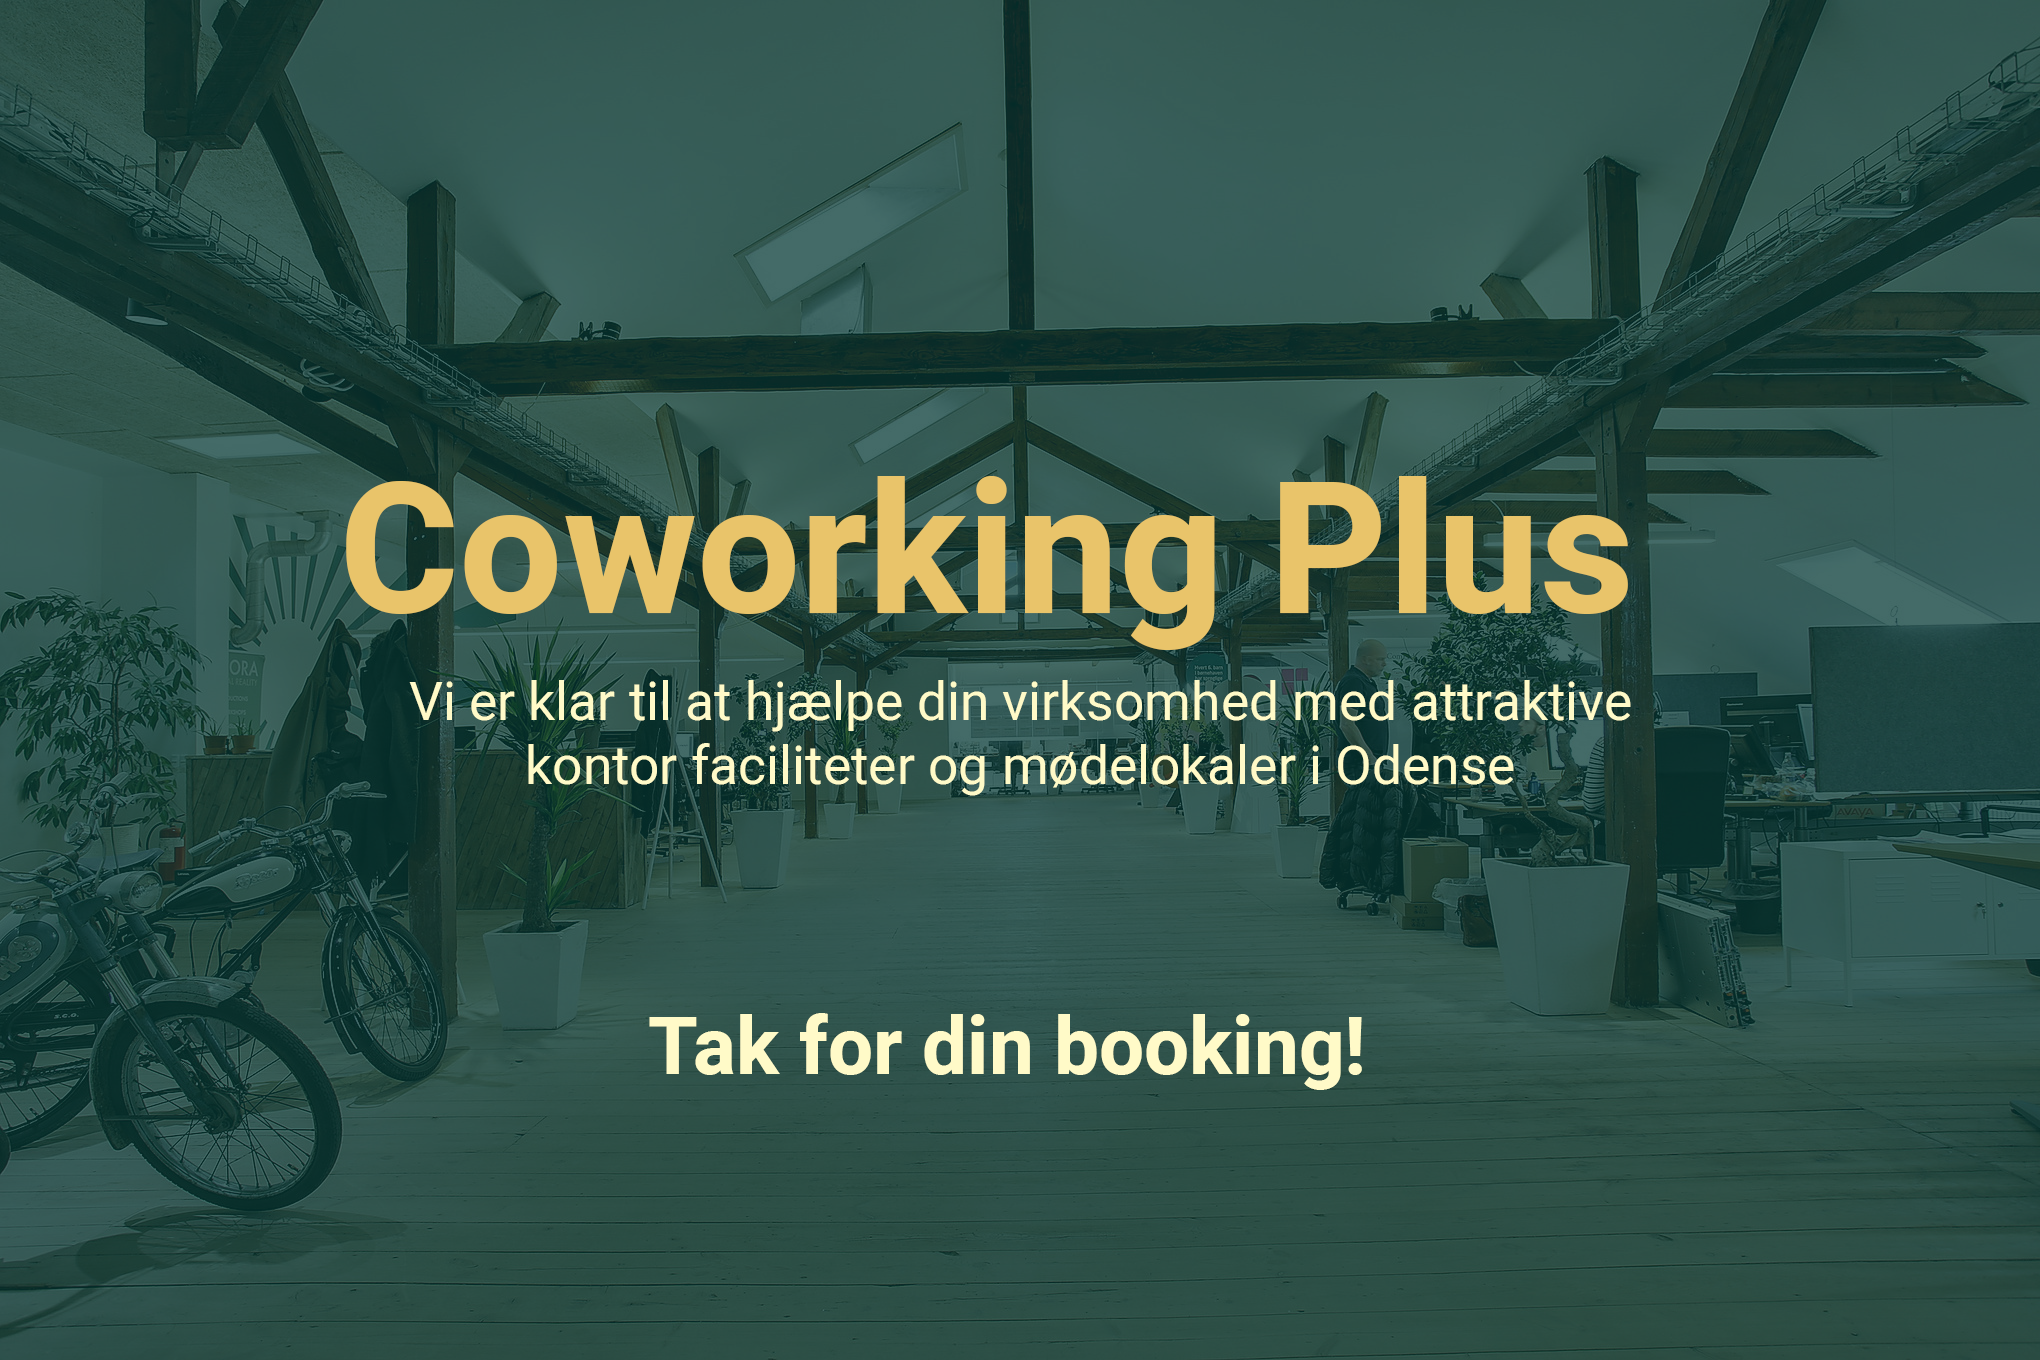
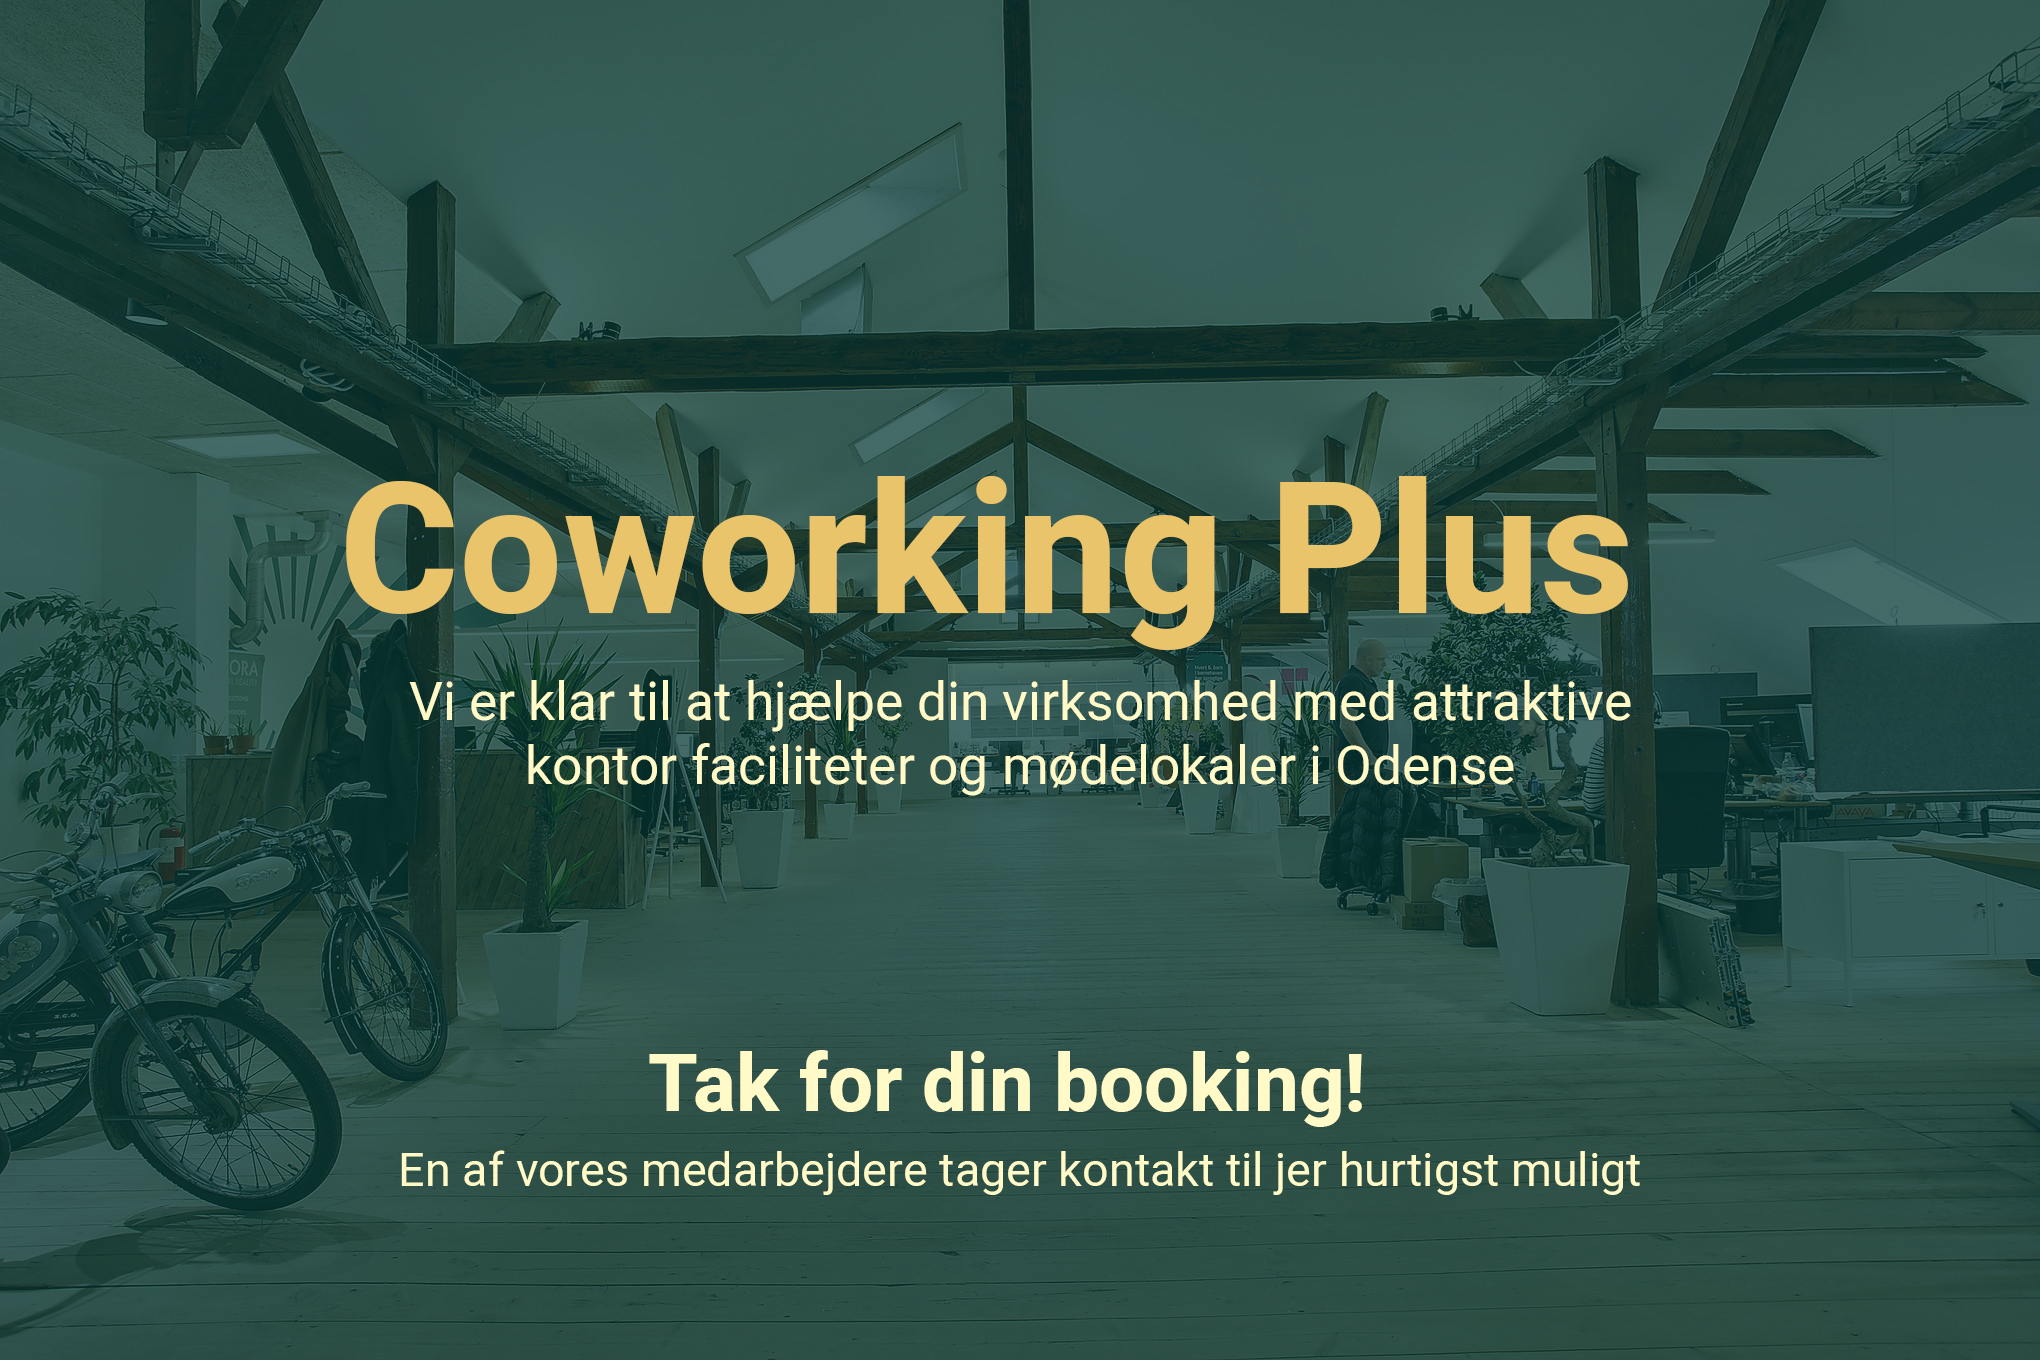
editing + 2nd part of the email template

Changed region(s): [[0.1853, 0.7412, 0.8029, 0.8956]]

diff --git a/index.html b/index.html
@@ -5,6 +5,7 @@
     <meta name="viewport" content="width=device-width, initial-scale=1.0">
     <title>Coworking Plus - Email Template</title>
     <link rel="stylesheet" href="style.css">
+    <link rel="stylesheet" href="https://fonts.googleapis.com/css?family=Heebo">
   </head>
   <body>
 
@@ -32,16 +33,16 @@
                   <table class="column">
                     <tr>
                       <td class="somehead">
-                        <a href="#"><img src="images/facebook.png" alt="facebookicon" class="icons"></a>
-                        <a href="#"><img src="images/linkedin.png" alt="linkedinicon" class="icons"></a>
-                        <a href="#"><img src="images/instagram.png" alt="instagramicon" class="icons"></a>
-                        <a href="#"><img src="images/twitter.png" alt="twittericon" class="icons"></a>
+                        <a href="https://www.facebook.com/CWOPlusOdense"><img src="images/facebook.png" alt="facebookicon" class="icons"></a>
+                        <a href="https://www.linkedin.com/company/cwoplus/"><img src="images/linkedin.png" alt="linkedinicon" class="icons"></a>
+                        <a href="https://www.instagram.com/cwoplus/"><img src="images/instagram.png" alt="instagramicon" class="icons"></a>
+                        <a href="https://twitter.com/CWOplus"><img src="images/twitter.png" alt="twittericon" class="icons"></a>
+                        <a href="https://www.youtube.com/channel/UC6eqIvFgrRJjuL3FPPH1vzQ"><img src="images/youtube.png" alt="youtubeicon" class="icons"></a>
                       </td>
                     </tr>
                   </table>
                 </td>
               </tr>
-
             </table>
           </td>
         </tr>
@@ -59,29 +60,99 @@
             <table class="threecolumnsection">
               <tr>
                 <td class="three-columns">
-                  <table class="column">
+                 <table class="column">
                     <tr>
                       <td class="padding">
                         <table class="content">
                           <tr>
                             <td>
-                              <a href="#"><img src="" alt=""></a>
+                              <a href="#"><img src="images/about.png" alt="about-us" class="about-us"></a>
+                            </td>
+                          </tr>
+                          <tr>
+                            <td>
+                              <p class="abouth1">Om os</p>
+                              <p class="abouttext"> Lorem ipsum dolor sit amet, consectetur adipisicing elit,
+                                sed do eiusmod tempor incididunt ut labore et dolore magna aliqua.
+                                Ut enim ad minim veniam, quis nostrud exercitation ullamco laboris nisi ut aliquip ex ea commodo consequat.
+                                Duis aute irure dolor in reprehenderit in voluptate velit esse cillum dolore eu fugiat nulla pariatur.
+                                Excepteur sint occaecat cupidatat non proident, sunt in culpa qui officia deserunt mollit anim id est laborum.</p>
                             </td>
                           </tr>
                         </table>
                       </td>
                     </tr>
                   </table>
+                  <table class="column">
+                     <tr>
+                       <td class="padding">
+                         <table class="content">
+                           <tr>
+                             <td>
+                               <a href="#"><img src="images/meetingroom.png" alt="benefits" class="benefits"></a>
+                             </td>
+                           </tr>
+                           <tr>
+                             <td>
+                               <p class="benefitsh1">Fordele</p>
+                               <p class="benefitstext"> Lorem ipsum dolor sit amet, consectetur adipisicing elit,
+                                 sed do eiusmod tempor incididunt ut labore et dolore magna aliqua.
+                                 Ut enim ad minim veniam, quis nostrud exercitation ullamco laboris nisi ut aliquip ex ea commodo consequat.
+                                 Duis aute irure dolor in reprehenderit in voluptate velit esse cillum dolore eu fugiat nulla pariatur.
+                                 Excepteur sint occaecat cupidatat non proident, sunt in culpa qui officia deserunt mollit anim id est laborum.</p>
+                             </td>
+                           </tr>
+                         </table>
+                       </td>
+                     </tr>
+                   </table>
+                   <table class="column">
+                      <tr>
+                        <td class="padding">
+                          <table class="content">
+                            <tr>
+                              <td>
+                                <a href="#"><img src="images/events.png" alt="events" class="events"></a>
+                              </td>
+                            </tr>
+                            <tr>
+                              <td>
+                                <p class="eventsh1">Events</p>
+                                <p class="eventstext"> Lorem ipsum dolor sit amet, consectetur adipisicing elit,
+                                  sed do eiusmod tempor incididunt ut labore et dolore magna aliqua.
+                                  Ut enim ad minim veniam, quis nostrud exercitation ullamco laboris nisi ut aliquip ex ea commodo consequat.
+                                  Duis aute irure dolor in reprehenderit in voluptate velit esse cillum dolore eu fugiat nulla pariatur.
+                                  Excepteur sint occaecat cupidatat non proident, sunt in culpa qui officia deserunt mollit anim id est laborum.</p>
+                              </td>
+                            </tr>
+                          </table>
+                        </td>
+                      </tr>
+                    </table>
                 </td>
               </tr>
             </table>
           </td>
         </tr>
-
-
-
-
-
+<!-- FOOTER -->
+        <tr>
+          <td class="footersection">
+            <table class="footer">
+              <tr>
+                <td class="footer-column">
+                  <a href="#"><img src="images/cwlogowhite.png" alt="Coworking Plus Logo" class="cwlogofoot"></a>
+                  <p class="footertitle">Coworking Plus ApS</p>
+                  <p class="footertext">Kochsgade 31D, 5000 Odense C, Danmark</p>
+                  <a href="https://www.facebook.com/CWOPlusOdense"><img src="images/facebookwhite.png" alt="facebookicon" class="icons"></a>
+                  <a href="https://www.linkedin.com/company/cwoplus/"><img src="images/linkedinwhite.png" alt="linkedinicon" class="icons"></a>
+                  <a href="https://www.instagram.com/cwoplus/"><img src="images/instagramwhite.png" alt="instagramicon" class="icons"></a>
+                  <a href="https://twitter.com/CWOplus"><img src="images/twitterwhite.png" alt="twittericon" class="icons"></a>
+                  <a href="https://www.youtube.com/channel/UC6eqIvFgrRJjuL3FPPH1vzQ"><img src="images/youtubewhite.png" alt="youtubeicon" class="icons"></a>
+                </td>
+              </tr>
+            </table>
+          </td>
+        </tr>
       </table>
     </div>
   </body>

diff --git a/style.css b/style.css
@@ -1,5 +1,6 @@
 * {
   scroll-behavior: smooth;
+  font-family: "Heebo";
 }
 
 body {
@@ -31,12 +32,11 @@ img{
   margin: 0 auto;
   max-width: 600px;
   border-spacing: 0;
-  font-family: "Heebo" sans-serif;
   color: #171a1b;
 }
 .topborder{
   height: 8px;
-  background-color: #E9C46A;
+  background-color: #053935;
 }
 .logosection{
   width: 100%;
@@ -46,7 +46,7 @@ img{
 }
 .icons{
   width: 30px;
-  padding: 2px;
+  padding-left: 1px;
   padding-top: 5px;
 }
 .two-columns{
@@ -74,6 +74,54 @@ img{
 }
 .threecolumnsection{
   width: 100%;
+}
+.about-us, .benefits, .events{
+  width: 130px;
+  max-width: 100px;
+}
+.abouth1, .benefitsh1, .eventsh1{
+  font-weight: bold;
+  font-size: 17px;
+  color: #E9C46A;
+}
+.three-columns{
+  text-align: center;
+  font-size: 0;
+  padding: 15px 0px 25px;
+}
+.three-columns .column{
+  width: 100%;
+  max-width: 200px;
+  display: inline-block;
+  vertical-align: top;
+}
+.three-columns .padding{
+  padding: 15px;
+}
+.three-columns .content{
+  font-size: 15px;
+  line-height: 20px;
+  padding: 0px 5px;
+}
+.footersection{
+  background-color: #053935;
+}
+.footer {
+  width: 100%;
+}
+.footer-column{
+  text-align: center;
+  padding: 45px 20px;
+  color: #ffffff;
+}
+.cwlogofoot{
+  width: 180px;
+}
+.footertitle{
+  padding: 10px;
+}
+.footertext{
+  padding: 10px;
 }
 
 @media screen and (max-width: 600px) {
